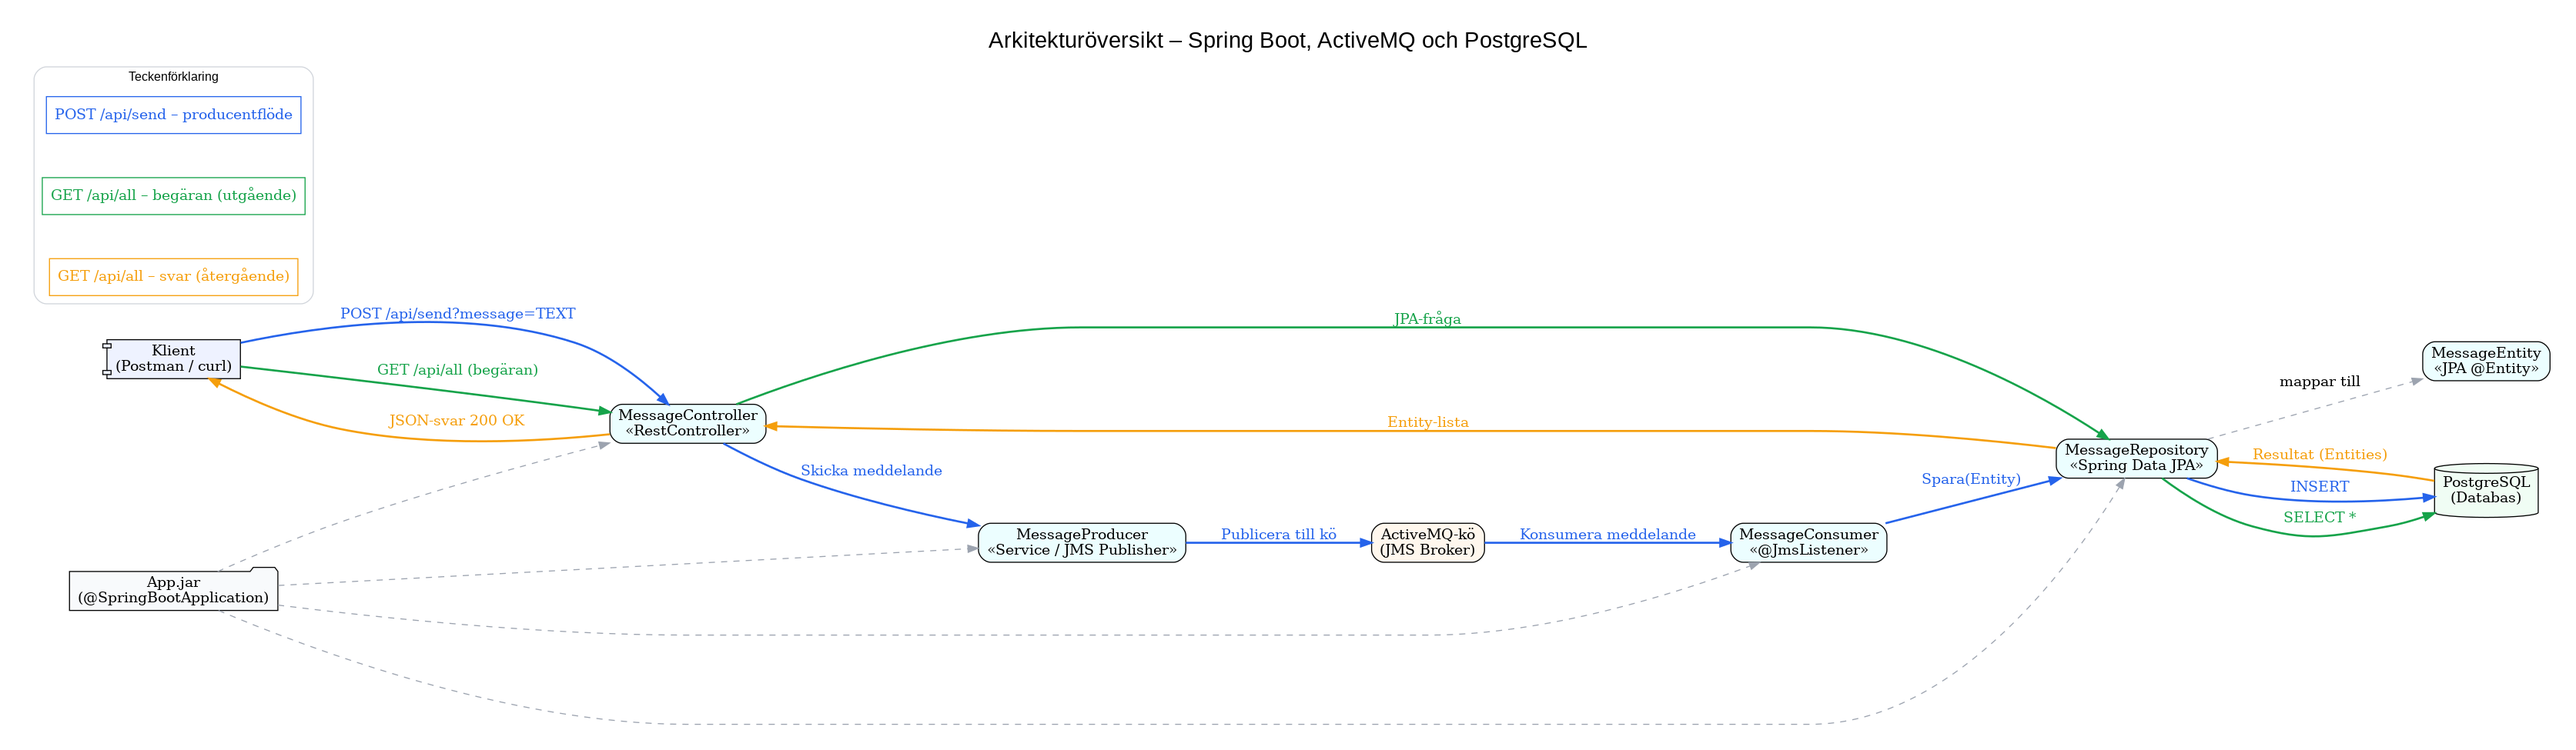
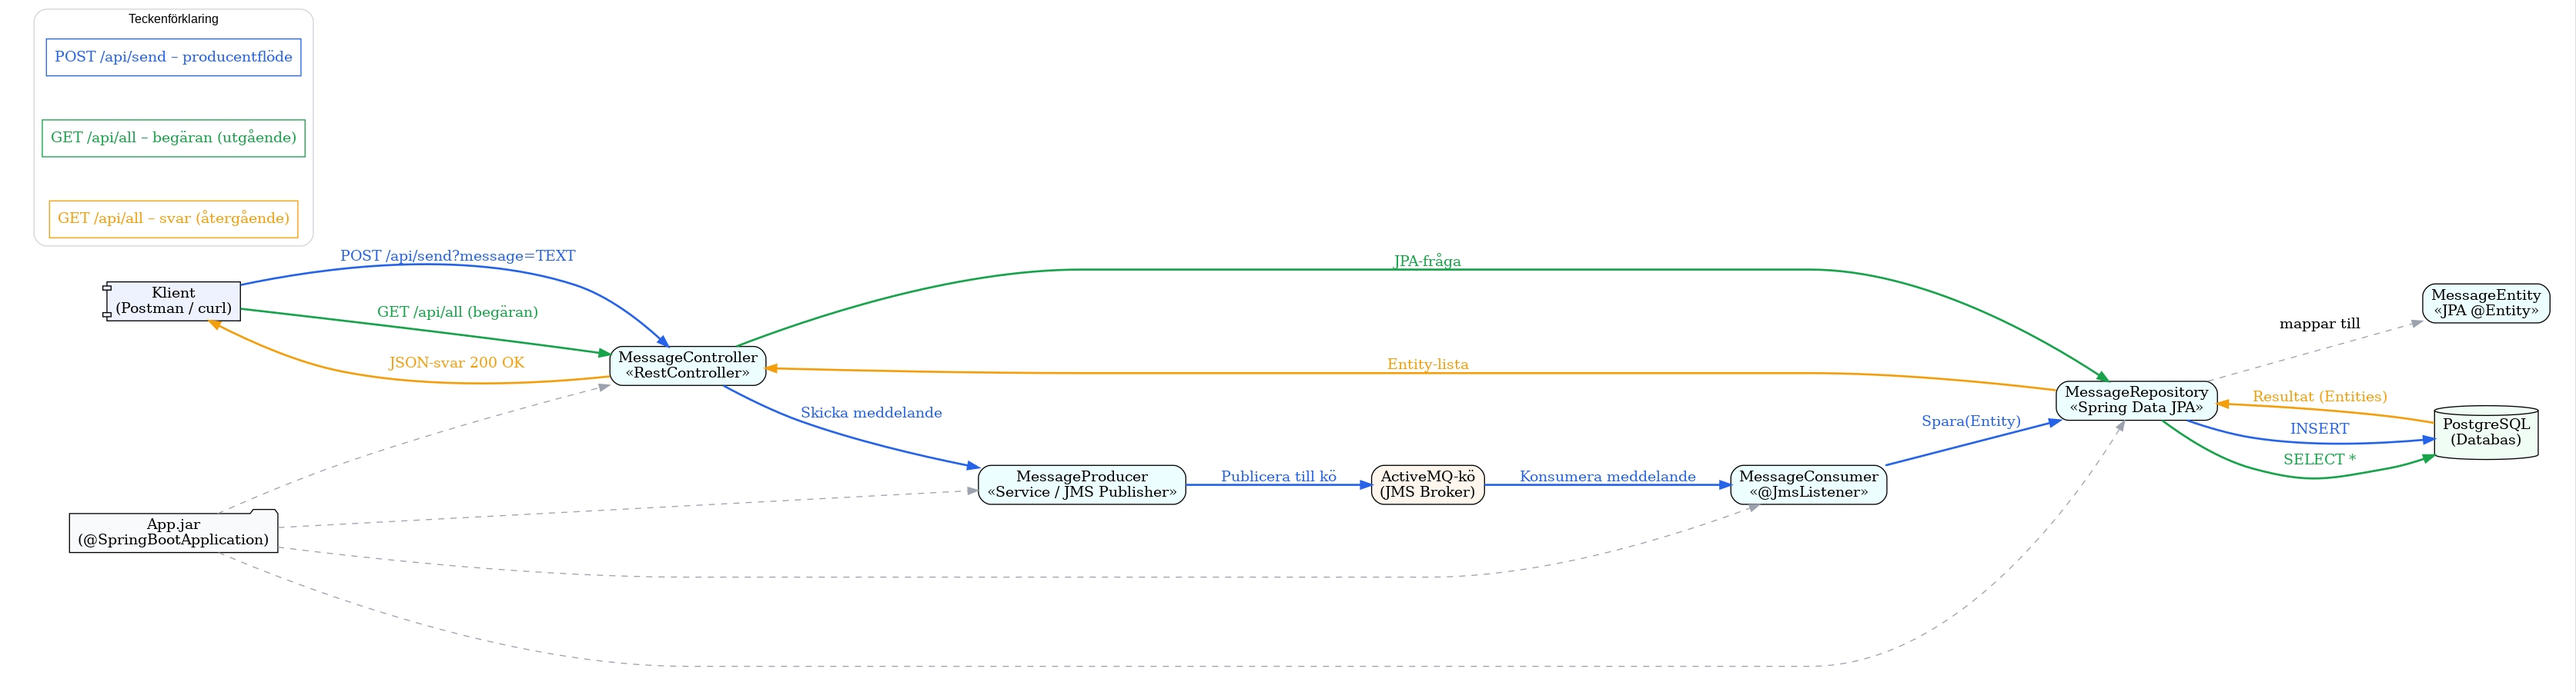
Security & maintenance: run container as non-root, update Dependabot schedule, refresh diagrams & README (#17)
* ci(security): harden Gitleaks workflow; refine allowlist and triggers

* ci(security): refine Gitleaks workflow (no functional change)

* ci(security): remove action args warning by switching to Gitleaks CLI; keep PR fast and push full scans

* ci(security): remove action args warning by switching to Gitleaks CLI; keep PR fast and push full scans

* ci(security): fix Gitleaks CLI flags (-c .gitleaks.toml); keep PR fast and push full scans

* ci(security): publish Gitleaks SARIF on main; keep PR fast and push full scans

* security(config): drop default passwords; require env vars for broker/db

* security(iac): drop default for sensitive env in compose; require explicit runtime secret

* security(config): remove hardcoded defaults; require env for DB/Broker passwords

* ci(security): install Gitleaks for push/schedule; redact env instructions in USAGE (no secrets)

* security(iac): require env-based credentials; refine quickstart

Compose: drop hardcoded defaults; app consumes runtime env via env_file. Docs: explain how to create .env from the example template before running.

* chore(project): container hardening; Dependabot schedule update; docs: standardize architecture diagram; update CI/CD pipeline diagram
[…]

diff --git a/README.md b/README.md
@@ -1,4 +1,4 @@
- checkout# Spring Boot Integration – ICC Demo  
+# Spring Boot Integration – ICC Demo  
 
 [![CI – main](https://github.com/igor88gomes/spring-boot-integration/actions/workflows/ci.yaml/badge.svg?branch=main)](https://github.com/igor88gomes/spring-boot-integration/actions/workflows/ci.yaml)
 [![CD – main](https://github.com/igor88gomes/spring-boot-integration/actions/workflows/docker-publish.yaml/badge.svg?branch=main)](https://github.com/igor88gomes/spring-boot-integration/actions/workflows/docker-publish.yaml)
@@ -23,7 +23,7 @@
        alt="CI/CD-pipeline – Spring Boot, Docker och GitHub Actions"
        width="900">
 </p>
-<p align="center"><em><strong>Bild 2.</strong> CI/CD-pipeline – bygg, test (JaCoCo/JavaDoc) och publicering till Docker Hub.</em></p>
+<p align="center"><em><strong>Bild 2.</strong> Bild 2. CI/CD-pipeline – bygg, test (JaCoCo/JavaDoc/Stubs), säkerhetsskanning (Gitleaks/Trivy med SARIF), och publicering till Docker Hub samt SBOM-generering.</em></p>
 
 ## Projektinformation
 
@@ -35,7 +35,7 @@ Det kombinerar asynkron kommunikation, spårbarhet, testbarhet och full CI/CD-au
 - Spårbarhet: JSON-loggar med korrelations-ID (MDC/JMSCorrelationID) end-to-end.
 - Testbarhet: enhet/web-slice, JPA/H2, BDD (Cucumber) och kontrakt (SCC).
 - Leverans: GitHub Actions kör tester i CI (H2) och **pushar först en kandidat-image till GHCR (privat)**; efter **Trivy-kvalitetsgrind** (**CRITICAL blockerar**) **promoteras med samma digest** till Docker Hub (`:latest`).
-- **Säkerhet & supply chain:** Trivy-gate (CRITICAL stop), **SBOM/OCI-etiketter**, **Gitleaks** och **Dependabot**.
+- **Säkerhet & supply chain:** Trivy-gate (CRITICAL stop), **SBOM/OCI-etiketter**, **Gitleaks (PR-gate)** och **Dependabot**.
 
 **Teknikstack (kort):** Java/Spring Boot 3, ActiveMQ (JMS), PostgreSQL, Docker/Compose.  
 *Test/CI-miljö:* H2 (in-memory, profil `test`). Inbäddad ActiveMQ (`vm://embedded`) startas för BDD/E2E; SCC kör mot MVC-slice (utan broker).
@@ -217,22 +217,40 @@ Se [docs/TESTS.md](docs/TESTS.md) för fler detaljer om testerna.
 
 > **Obs:** Java 17 ingår i applikationsimagen; inget lokalt JDK krävs.
 
+### Branch-strategi (kort)
+
+- Dagligt arbete i `test`; PR → `main` med **squash-merge**.
+- Obligatoriska checks på PR: **CI** + **Secret Scan (Gitleaks)**.
+- Release: **push till `main`** triggar CD och publicering till Docker Hub.
+- **Regler (`main`):** **squash-only**, **linear history**, **blockera force pushes**, **kräver uppdaterad branch före merge**, och **obligatoriska status checks:** `build` + `gitleaks`.
+
 ### Bygg / CI & dokumentation (GitHub Actions)
 
 - **Workflow:** `.github/workflows/ci.yaml`
-- **Trigger:** push/PR till `main` och `test`
+- **Trigger:** push till `main` och `test`; PR till `main`
 
 - **Steg:**
   - **Steg 1 – Checkout & JDK 17:** checka ut källkod och konfigurera Java.
   - **Steg 2 – Bygg & tester (Maven/H2):** kör `mvn verify` med H2 för isolerade tester.
   - **Steg 3 – Kodtäckning (JaCoCo):** generera rapport och ladda upp som artefakt.
   - **Steg 4 – JavaDoc (endast `main`):** generera och ladda upp som artefakt.
-  - **Steg 5 – Stubs (SCC), (endast `main`):** generera WireMock-stubs från kontrakt och ladda upp.
+  - **Steg 5 – Stubs (SCC), (endast `main`):** stubs **genereras av Spring Cloud Contract under `mvn verify`** och CI **laddar upp `*-stubs.jar` som artefakt** (om finns).
 
 - **Artefakter:**
   - `jacoco-report` (main/test, **retention 14 dagar**)
   - `javadocs` (endast `main`, **14 dagar**)
   - `stubs` (endast `main`, **14 dagar**) – genererade av Spring Cloud Contract för konsumenttester
+
+#### Secret scanning (Gitleaks)
+
+- **Workflow (fristående):** `secret-scan.yaml` körs separat från CI.
+- **Schema (UTC):** måndagar **03:00 UTC** (full historikskanning + SARIF).
+- **Policy:** PR blockeras vid fynd (exit ≠ 0).
+- **SARIF:** genereras och laddas upp **vid push till `main`** och vid den schemalagda körningen till *Security → Code scanning*.
+- **Beteende:**
+  - PR = snabb skanning av ändringar (`--no-git`)
+  - Push/schedule = full historik (checkout `fetch-depth: 0`) + SARIF
+- **Konfig:** `.gitleaks.toml` (ignorerar `.env.example`, `application-test.properties`; placeholders: `changeme`, `to-be-set`, `example`, `dummy`).
 
 ### Distribution (CD) – Docker-image (GitHub Actions)
 
@@ -248,15 +266,39 @@ Se [docs/TESTS.md](docs/TESTS.md) för fler detaljer om testerna.
   4. **SBOM (insyn):** **CycloneDX SBOM** (`sbom.cdx.json`) laddas upp som **Actions-artefakt** (**retention 14 dagar**).
   5. **Rensning:** temporära Docker Desktop-buildfiler (`*.dockerbuild`) tas bort i jobben för att hålla run-loggen ren.
 
-- **Säkerhet & kontroll:**
-  - **Concurrency:** `concurrency.group=docker-publish-${{ github.ref }}` och `cancel-in-progress: true` förhindrar parallella dubbletter.
-  - **Retention (GHCR):** candidate-images märks bl.a. med  
-    `org.opencontainers.image.ref.name=candidate` och `ghcr.io/retention-days=14` → autosanering efter 14 dagar.
-  - **Behörigheter:** workflow ger **packages: write**, **security-events: write**, **contents: read** för att kunna publicera images och skicka SARIF.
+#### Säkerhet & kontroll
+
+- **Concurrency:** `concurrency.group=docker-publish-${{ github.ref }}` och `cancel-in-progress: true` förhindrar parallella dubbletter.
+- **Retention (GHCR):** candidate-images märks bl.a. med  
+  `org.opencontainers.image.ref.name=candidate` och `ghcr.io/retention-days=14` → autosanering efter 14 dagar.
+- **Behörigheter:** workflow ger **packages: write**, **security-events: write**, **contents: read** för att kunna publicera images och skicka SARIF.
 
 - **Resultat:**
+
   - **GHCR (privat):** *candidate* (per-commit) – för skanning och spårbarhet.
   - **Docker Hub (publik):** `:latest` – **multi-arch** och redo för `docker/podman-compose`.
+
+## Säkerhet & Underhåll
+
+### Beroendehantering (Dependabot)
+
+- **Schema (UTC) & flöde**
+  - **Maven (app):** **måndagar 01:00 UTC** → PR till `test`  
+    – *en körning, två grupper*:
+    - `maven-security` – **endast säkerhetsuppdateringar**
+    - `maven-patch-minor` – **patch/minor för direkta beroenden**
+  - **GitHub Actions (CI):** **måndagar 01:15 UTC** → PR till `test`  
+    – versionbumps **grupperas** (patch/minor) och säkerhetsuppdateringar kommer när advisories finns.
+  - **Tidszon:** alla tider är **UTC** för konsekventa körningar året runt.
+
+- **Policy**
+  - PR-gruppering och **auto-rebase**; **target branch:** `test`.
+  - **Majors** (t.ex. `spring-boot`) ignoreras här och planeras separat.
+  - **Branchskydd:** PR kräver **grön CI** (build + tester) och **Gitleaks** innan merge.
+
+### Kodskanning (SARIF)
+
+Alla säkerhetsresultat från både **Gitleaks** (hemligheter) och **Trivy** (image-skanning) laddas upp som **SARIF** till *Security → Code scanning* för central analys och historik.
 
 ## Projektstruktur
 
